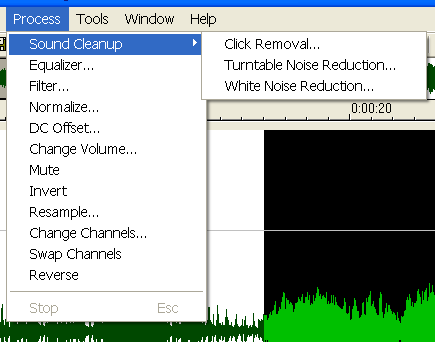
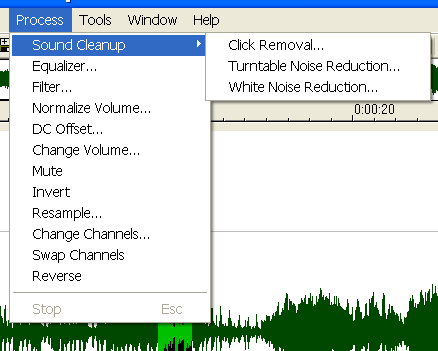
Change "Normalize" title and menu to "Normalize Volume"

diff --git a/hlp/html/Process/process_menu.htm b/hlp/html/Process/process_menu.htm
@@ -30,7 +30,7 @@
 <TD width=398>Suppress lowest and/or highest frequencies in the sound</TD>
 </tr>
 <tr>
-<TD width=170><a href="process_normalize.htm">Normalize</a></TD>
+<TD width=170><a href="process_normalize.htm">Normalize Volume</a></TD>
 <TD width=398>Changes sound volume to bring the maximum to the specific level </TD>
 </tr>
 

diff --git a/hlp/html/Process/process_normalize.htm b/hlp/html/Process/process_normalize.htm
@@ -9,7 +9,7 @@
 
 <body>
 
-<h3><B>Normalize&nbsp;command (<a href="process_menu.htm">Process menu</a>)</B></h3>
+<h3><B>Normalize&nbsp;Volume command (<a href="process_menu.htm">Process menu</a>)</B></h3>
 
 <P>Use this command to bring the sound volume to the specified peak value.</P>
 <P>The following dialog box is shown:</P>
